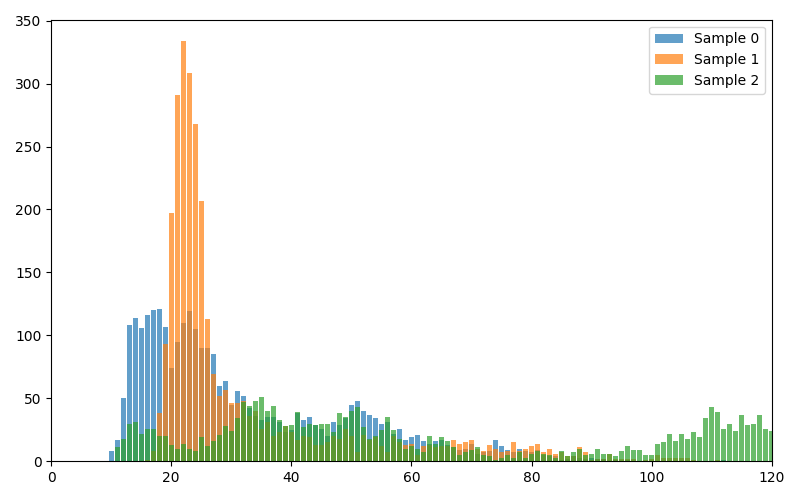
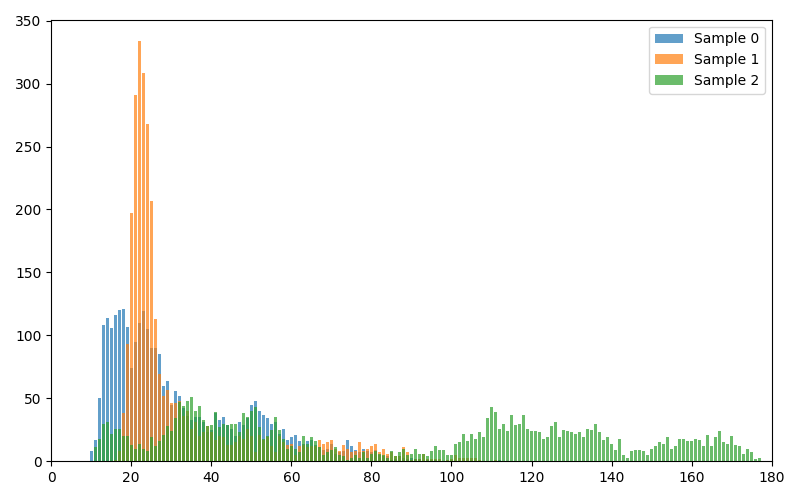
5/7

Changed region(s): [[0.0938, 0.09, 0.9688, 0.96]]

diff --git a/plot.py b/plot.py
@@ -103,7 +103,7 @@ elif args.plot=='2':
     ax.bar(x, sl0, alpha=0.7, label='Sample 0')
     ax.bar(x, sl1, alpha=0.7, label='Sample 1')
     ax.bar(x, sl2, alpha=0.7, label='Sample 2')
-    ax.set_xlim(0, 120)
+    ax.set_xlim(0, 180)
     plt.legend(loc=1)
     plt.tight_layout()
     plt.savefig(os.path.join(sP, sF))    

diff --git a/README.md b/README.md
@@ -31,24 +31,39 @@ python 3.8.5
 ### 資料集分析
 
 **1. 各類別可視化**
-    本資料集共蒐集43類不同的德國交通號誌。\
-    從各類別隨機取樣40筆作圖可得下圖：
-    <img src=https://i.imgur.com/7uPPoyC.png>
-    由此可知，收集而成的資料有不同時間段或者光影環境所組成，\
-    因此能提升模型的強健性。\
-    \
-    如果要再進一步強化模型的學習能力，應再對資料作增強 (data augmentation)，\
-    如對圖片作旋轉任意角度或水平與垂直翻轉。
+本資料集共蒐集43類不同的德國交通號誌。\
+從各類別隨機取樣40筆作圖可得下圖：
+
+<img src=https://i.imgur.com/7uPPoyC.png>
+
+由此可知，收集而成的資料有不同時間段或者光影環境所組成，\
+因此能提升模型的強健性。\
+\
+如果要再進一步強化模型的學習能力，應再對資料作增強 (data augmentation)，\
+如對圖片作旋轉任意角度或水平與垂直翻轉。
 
 **2. 各類別數量統計**
-    統計訓練集與驗證集各類別的數量，化成直方圖如下：
-    <img src=https://i.imgur.com/vRVy8tG.png>
-    <img src=https://i.imgur.com/xjjkOtl.png>
-    由此發現各類別的分佈相當不平均，若要增加分類的準確率，\
-    應對各類別有所增減使彼此數量相近，避免模型學習時過於偏向某一類別。
+統計訓練集與驗證集各類別的數量，化成直方圖如下：
 
-3. 圖片數值分佈
-   隨機取樣三張圖片，統計其內的數值分佈可畫成以下直方圖：
-   <img src=https://i.imgur.com/KN6rK6Q.png>
+<img src=https://i.imgur.com/vRVy8tG.png>
+<img src=https://i.imgur.com/xjjkOtl.png>
+
+由此發現各類別的分佈相當不平均，若要增加分類的準確率，\
+應對各類別有所增減使彼此數量相近，避免模型學習時過於偏向某一類別。
+
+**3. 圖片數值分佈**
+隨機取樣三張圖片，統計其內的數值分佈可畫成以下直方圖：
+
+<img src=https://i.imgur.com/UsUmcxk.png>
+
+為了增加訓練時的收斂速度與平穩度，故須對各張圖片進行特徵縮放 (feature scaling)，\
+此處採用Z-Score Standardization進行，\
+將資料轉換為常態分佈，可視化後如下：
+
+<img src=https://i.imgur.com/fIFDe2X.png>
+
+如此便能開始進行模型的訓練。
+
+### 模型介紹
 
 ### 程式碼註解
